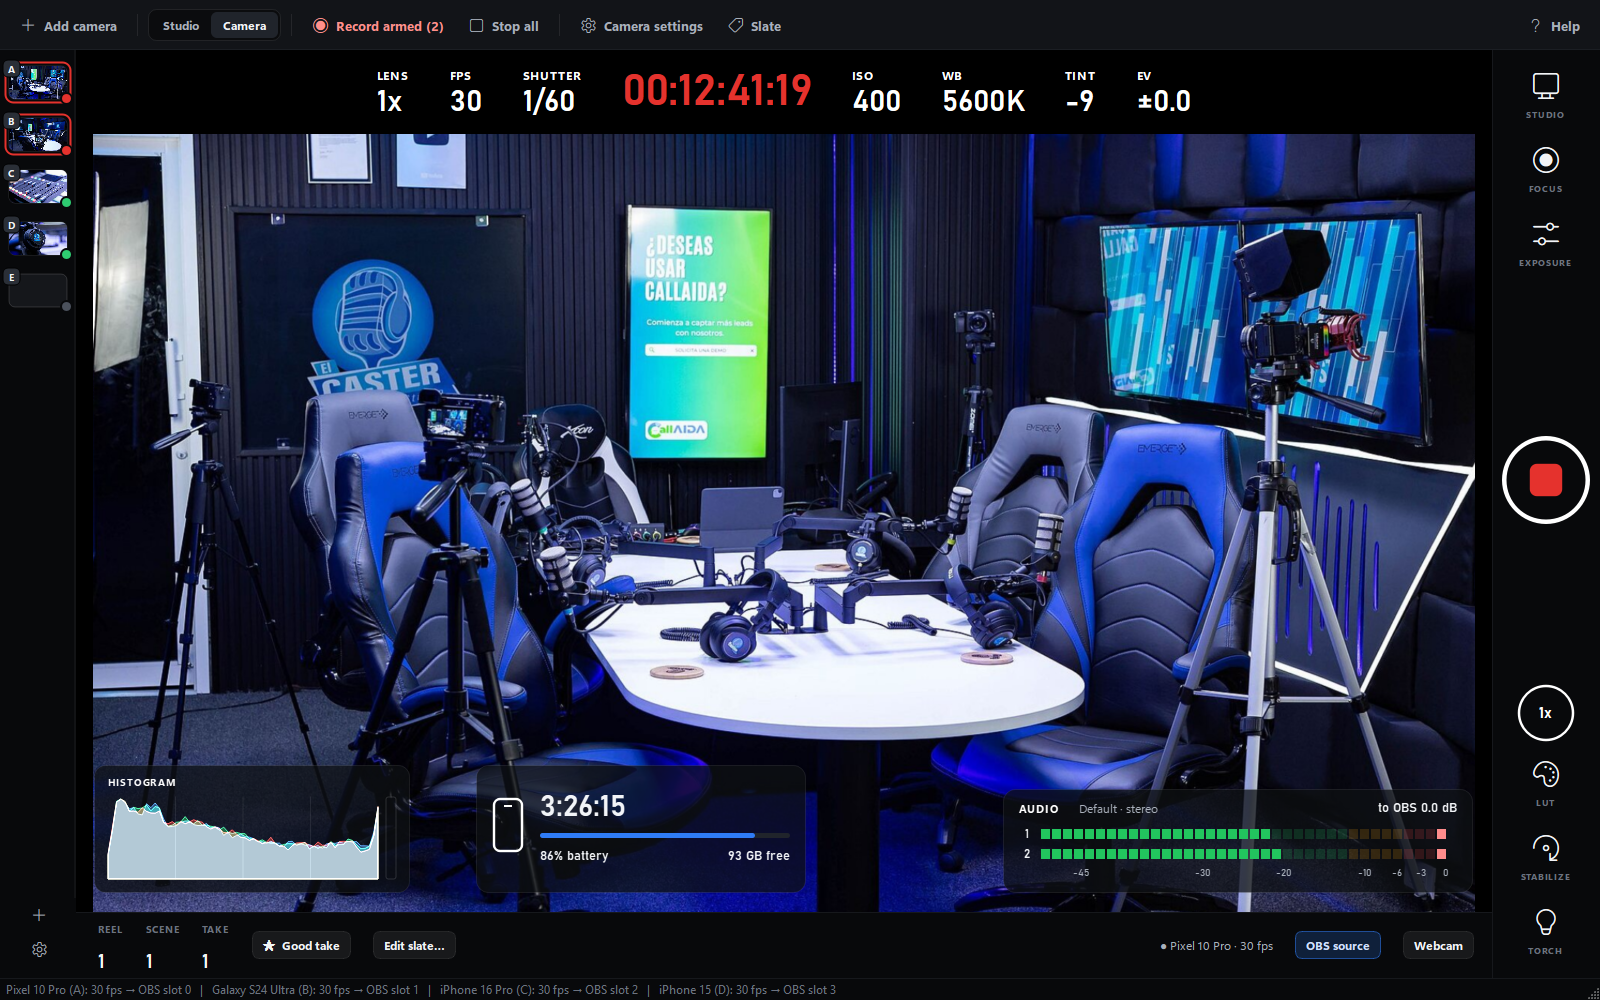
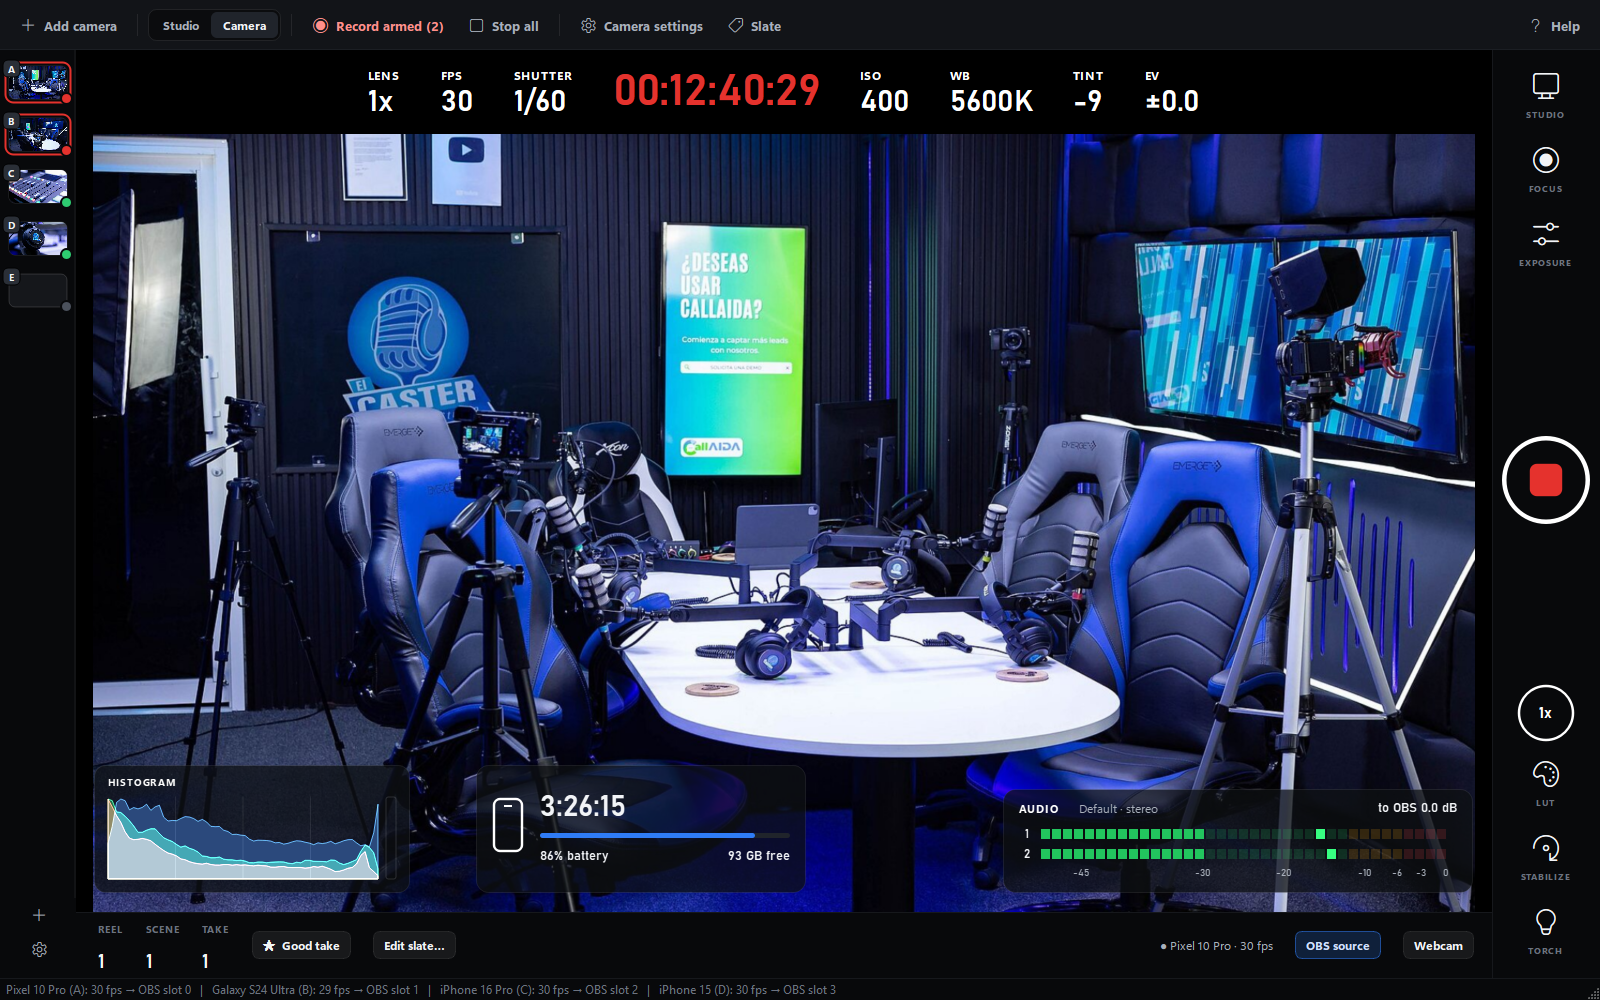
CineRemote 1.1.8: clean left edge, colour histogram, multiview enlarge in place, audio slider

diff --git a/cineremote/__init__.py b/cineremote/__init__.py
@@ -1,2 +1,2 @@
 """CineRemote - remote control and live monitoring for the Blackmagic Camera app."""
-__version__ = "1.1.7"
+__version__ = "1.1.8"

diff --git a/CHANGELOG.md b/CHANGELOG.md
@@ -1,5 +1,20 @@
 # Changelog
 
+## 1.1.8
+
+- **Fixed tick marks down the left edge of the picture.** Every camera's picture had small marks along its
+  left edge, from how video was scaled on PCs with many processor cores. The monitor, multiview, OBS output
+  and virtual webcam all scale cleanly now.
+- **The histogram shows colour.** It was drawing the blue channel three times, so it came out grey; red, green
+  and blue now show separately, like on the phone.
+- **Multiview:** the corner icon enlarges a camera inside the multiview, and the same icon takes you back to
+  the grid (it used to leave the multiview). Pictures have rounded corners matching the highlight, and the
+  readout sits straight on the picture with a soft shadow instead of a dark band.
+- **Audio:** the level sent to OBS is a slider instead of a dial (easier on a touchpad: click or drag
+  anywhere, scroll or arrow keys for 0.5 dB, double-click for 0 dB). Clicking the audio meter again closes
+  its popup.
+- **Camera cards:** the white badge shows the phone's whole slate name, with the phone's name under it.
+
 ## 1.1.7
 
 - **Audio meters show real stereo.** CineRemote now asks the phone for stereo audio. Without that, some
